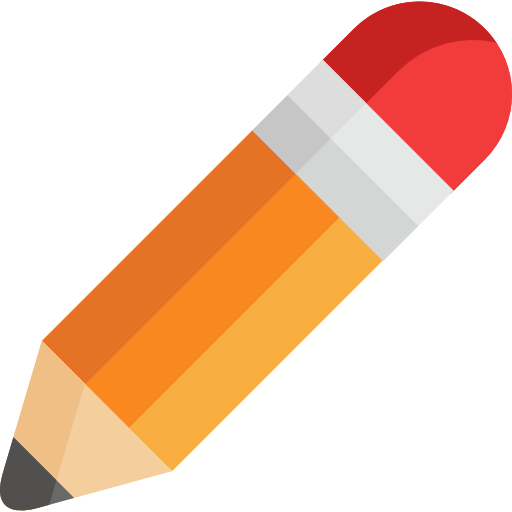
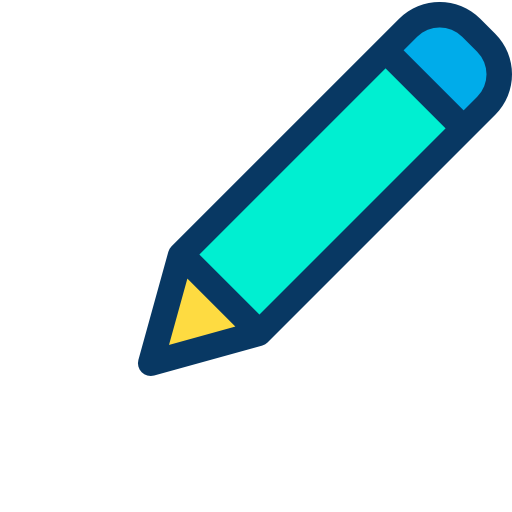
Updated ListaDeContatos component to import and use Card component, and replaced placeholder text with Card element. Updated pencil.png image

diff --git a/src/components/CardContato/style.ts b/src/components/CardContato/style.ts
@@ -1,0 +1,60 @@
+import styled from 'styled-components'
+
+export const CardContato = styled.div`
+  width: 100%;
+  display: flex;
+  justify-content: center;
+  align-items: center;
+  border-radius: 6px;
+  margin-bottom: 24px;
+  padding: 16px;
+  background-color: #f1f1f1;
+  box-shadow: rgba(0, 0, 0, 0.35) 0px 5px 15px;
+  text-decoration: none;
+
+  @media (max-width: 992px) {
+    width: 95%;
+  }
+`
+export const Foto = styled.img`
+  height: 48px;
+  width: 48px;
+  border-radius: 50%;
+  margin-right: 5%;
+`
+export const Dados = styled.ul`
+  display: flex;
+  flex-direction: column;
+  justify-content: center;
+  align-items: center;
+  list-style: none;
+  li {
+    margin-right: 1.1rem;
+    margin-bottom: 4%;
+  }
+
+  @media (max-width: 992px) {
+    width: 95%;
+  }
+`
+export const CapsulaDados = styled.div`
+  display: flex;
+  justify-content: center;
+  align-items: center;
+
+  @media (max-width: 992px) {
+    flex-direction: column;
+  }
+`
+
+export const BotaoCancelarEDeletar = styled.button`
+  border: none;
+  border-radius: 50%;
+  cursor: pointer;
+  margin-left: 1rem;
+  img {
+    max-width: 30px;
+    max-height: 30px;
+  }
+`
+export const BotaoEditar = styled(BotaoCancelarEDeletar)``

diff --git a/src/components/CardContato/index.tsx b/src/components/CardContato/index.tsx
@@ -1,0 +1,39 @@
+import React from 'react'
+import {
+  BotaoCancelarEDeletar,
+  BotaoEditar,
+  CapsulaDados,
+  CardContato,
+  Dados,
+  Foto
+} from './style'
+import pen from '../../assets/pencil.png'
+import trash from '../../assets/trash.png'
+
+const Card = () => {
+  return (
+    <CardContato>
+      <Foto src="https://github.com/MarvinRF.png" alt="Foto de perfil" />
+      <ul>
+        <CapsulaDados>
+          <Dados>
+            <li>Marvin</li>
+            <li>991790938</li>
+          </Dados>
+          <Dados>
+            <li>marvinvca@outlook.com</li>
+            <li>MarvinRF</li>
+          </Dados>
+        </CapsulaDados>
+      </ul>
+      <BotaoEditar>
+        <img src={pen} alt="editar" />
+      </BotaoEditar>
+      <BotaoCancelarEDeletar>
+        <img src={trash} alt="Deletar" />
+      </BotaoCancelarEDeletar>
+    </CardContato>
+  )
+}
+
+export default Card

diff --git a/src/components/ListaDeContatos/index.tsx b/src/components/ListaDeContatos/index.tsx
@@ -1,7 +1,12 @@
 import React from 'react'
+import Card from '../CardContato'
 
 const ListaDeContatos = () => {
-  return <div>ListaDeContatos</div>
+  return (
+    <div>
+      <Card />
+    </div>
+  )
 }
 
 export default ListaDeContatos
